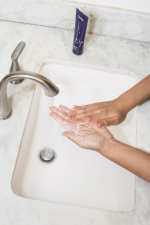
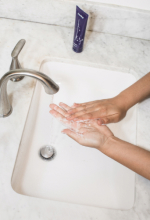
resized pictures

diff --git a/index.html b/index.html
@@ -57,7 +57,7 @@
 
                 </div>
                 <div class="main-big-image">
-                    <img src="images/all.jpg" alt="">
+                    <img src="images/image7.jpg" alt="">
                 </div>
             </div>
             <div class="text">
